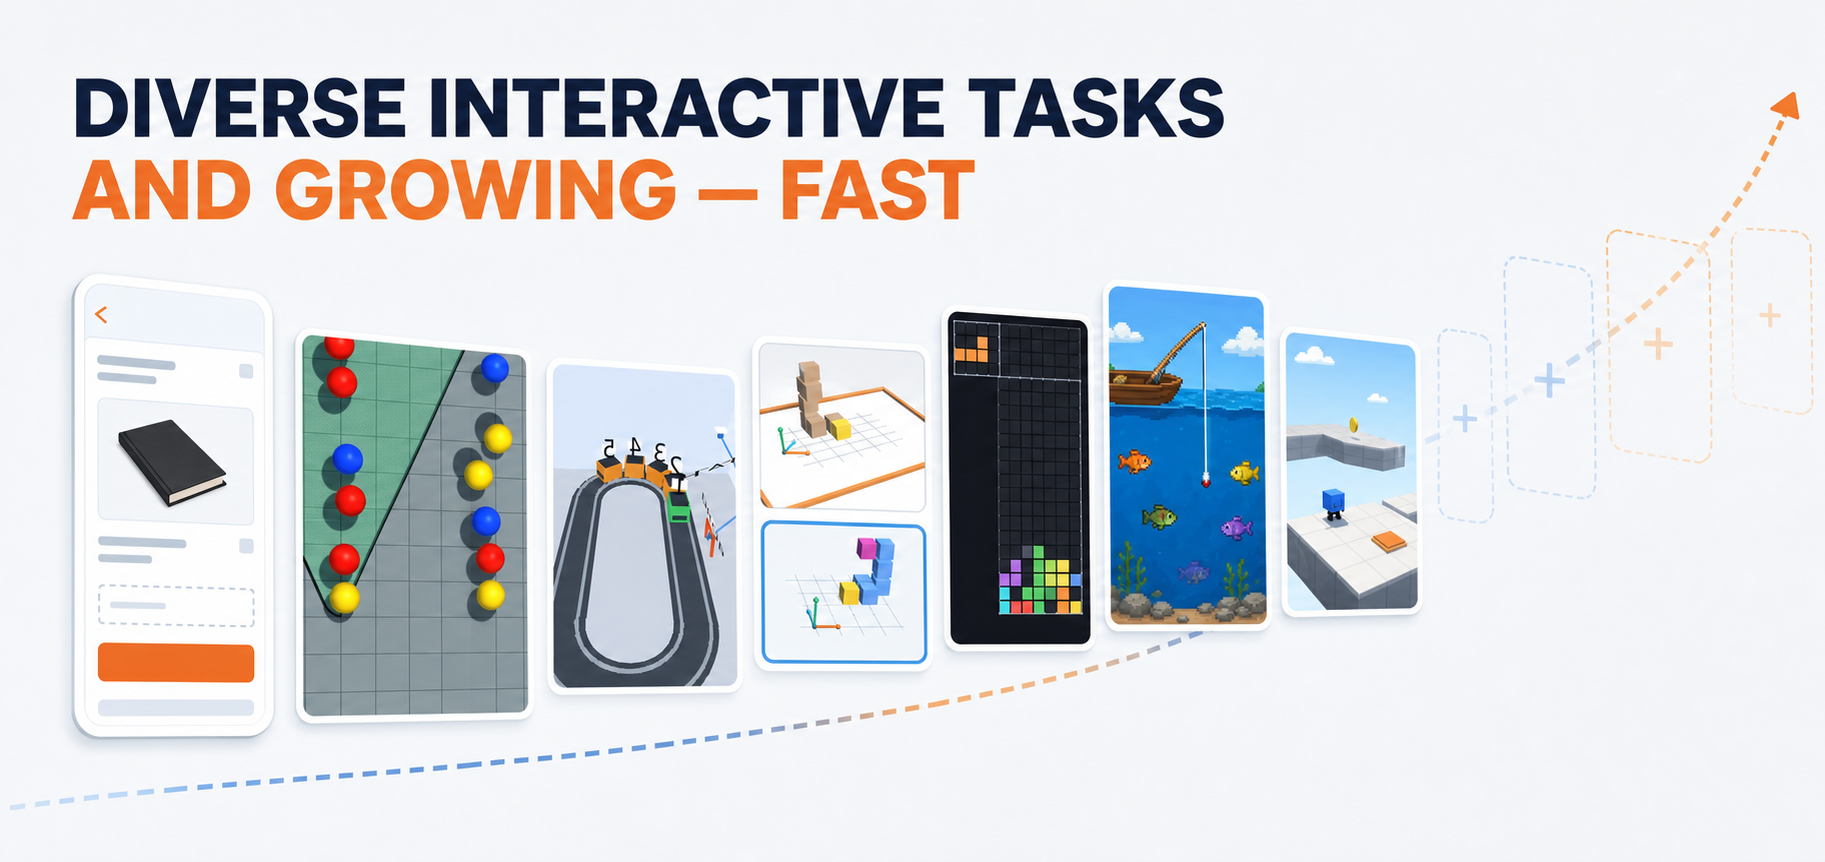
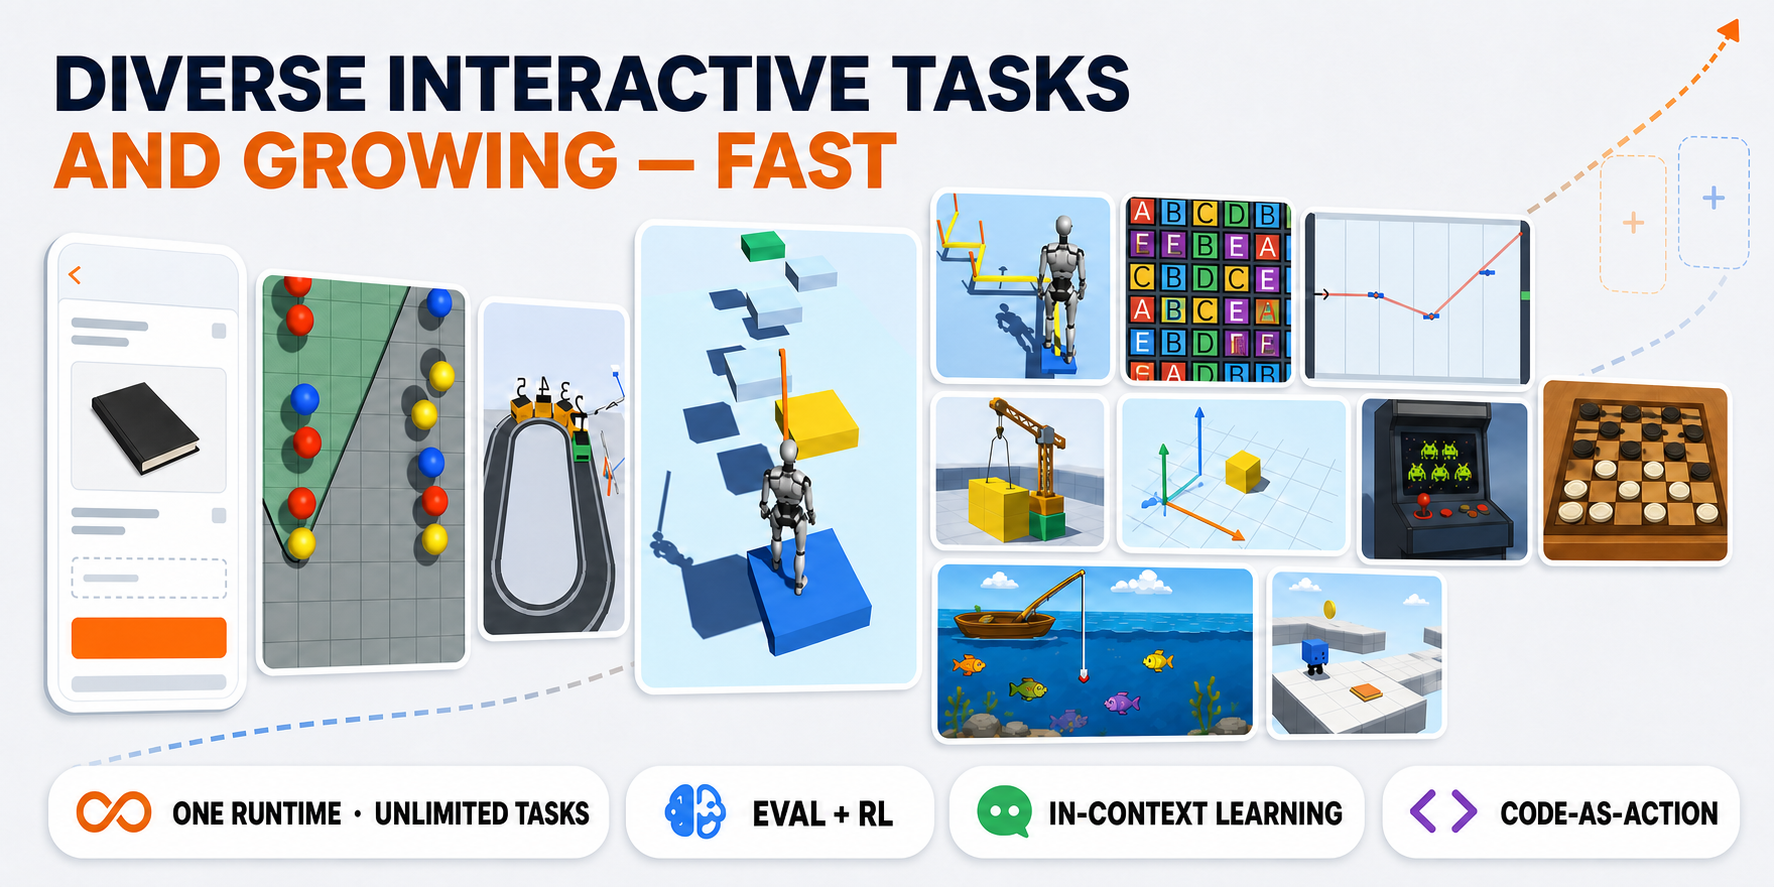
docs: refine README task showcase

diff --git a/README.md b/README.md
@@ -3,7 +3,7 @@
 English | [简体中文](README.zh-CN.md)
 
 <p align="center">
-  <img src="docs/figures/agentark-figure1.png" alt="AgentArk architecture and workflow overview" width="900">
+  <img src="docs/figures/agentark-task-diversity.png" alt="A growing gallery of diverse AgentArk tasks supported by one runtime for evaluation and reinforcement learning" width="900">
 </p>
 
 AgentArk is an open environment framework for multimodal agents: models can see
@@ -22,6 +22,10 @@ evaluation, replay, environment serving, and RL training integration.
 
 ## What AgentArk Enables
 
+<p align="center">
+  <img src="docs/figures/agentark-figure1.png" alt="AgentArk architecture and workflow overview" width="900">
+</p>
+
 - **Task scaling with coding agents.** New environments are packaged as task
   mods, so designers, builders, and reviewers can expand the task library
   without changing the core runtime.
@@ -34,10 +38,6 @@ evaluation, replay, environment serving, and RL training integration.
   calibration, timing control, path planning, video-level observation,
   mini-games, GUI-like tasks, and future task families that can be expressed as
   loadable mods with verifiable scoring.
-
-<p align="center">
-  <img src="docs/figures/agentark-task-diversity.png" alt="Diverse AgentArk interactive tasks in a rapidly growing task library" width="900">
-</p>
 
 ## Try AgentArk First
 